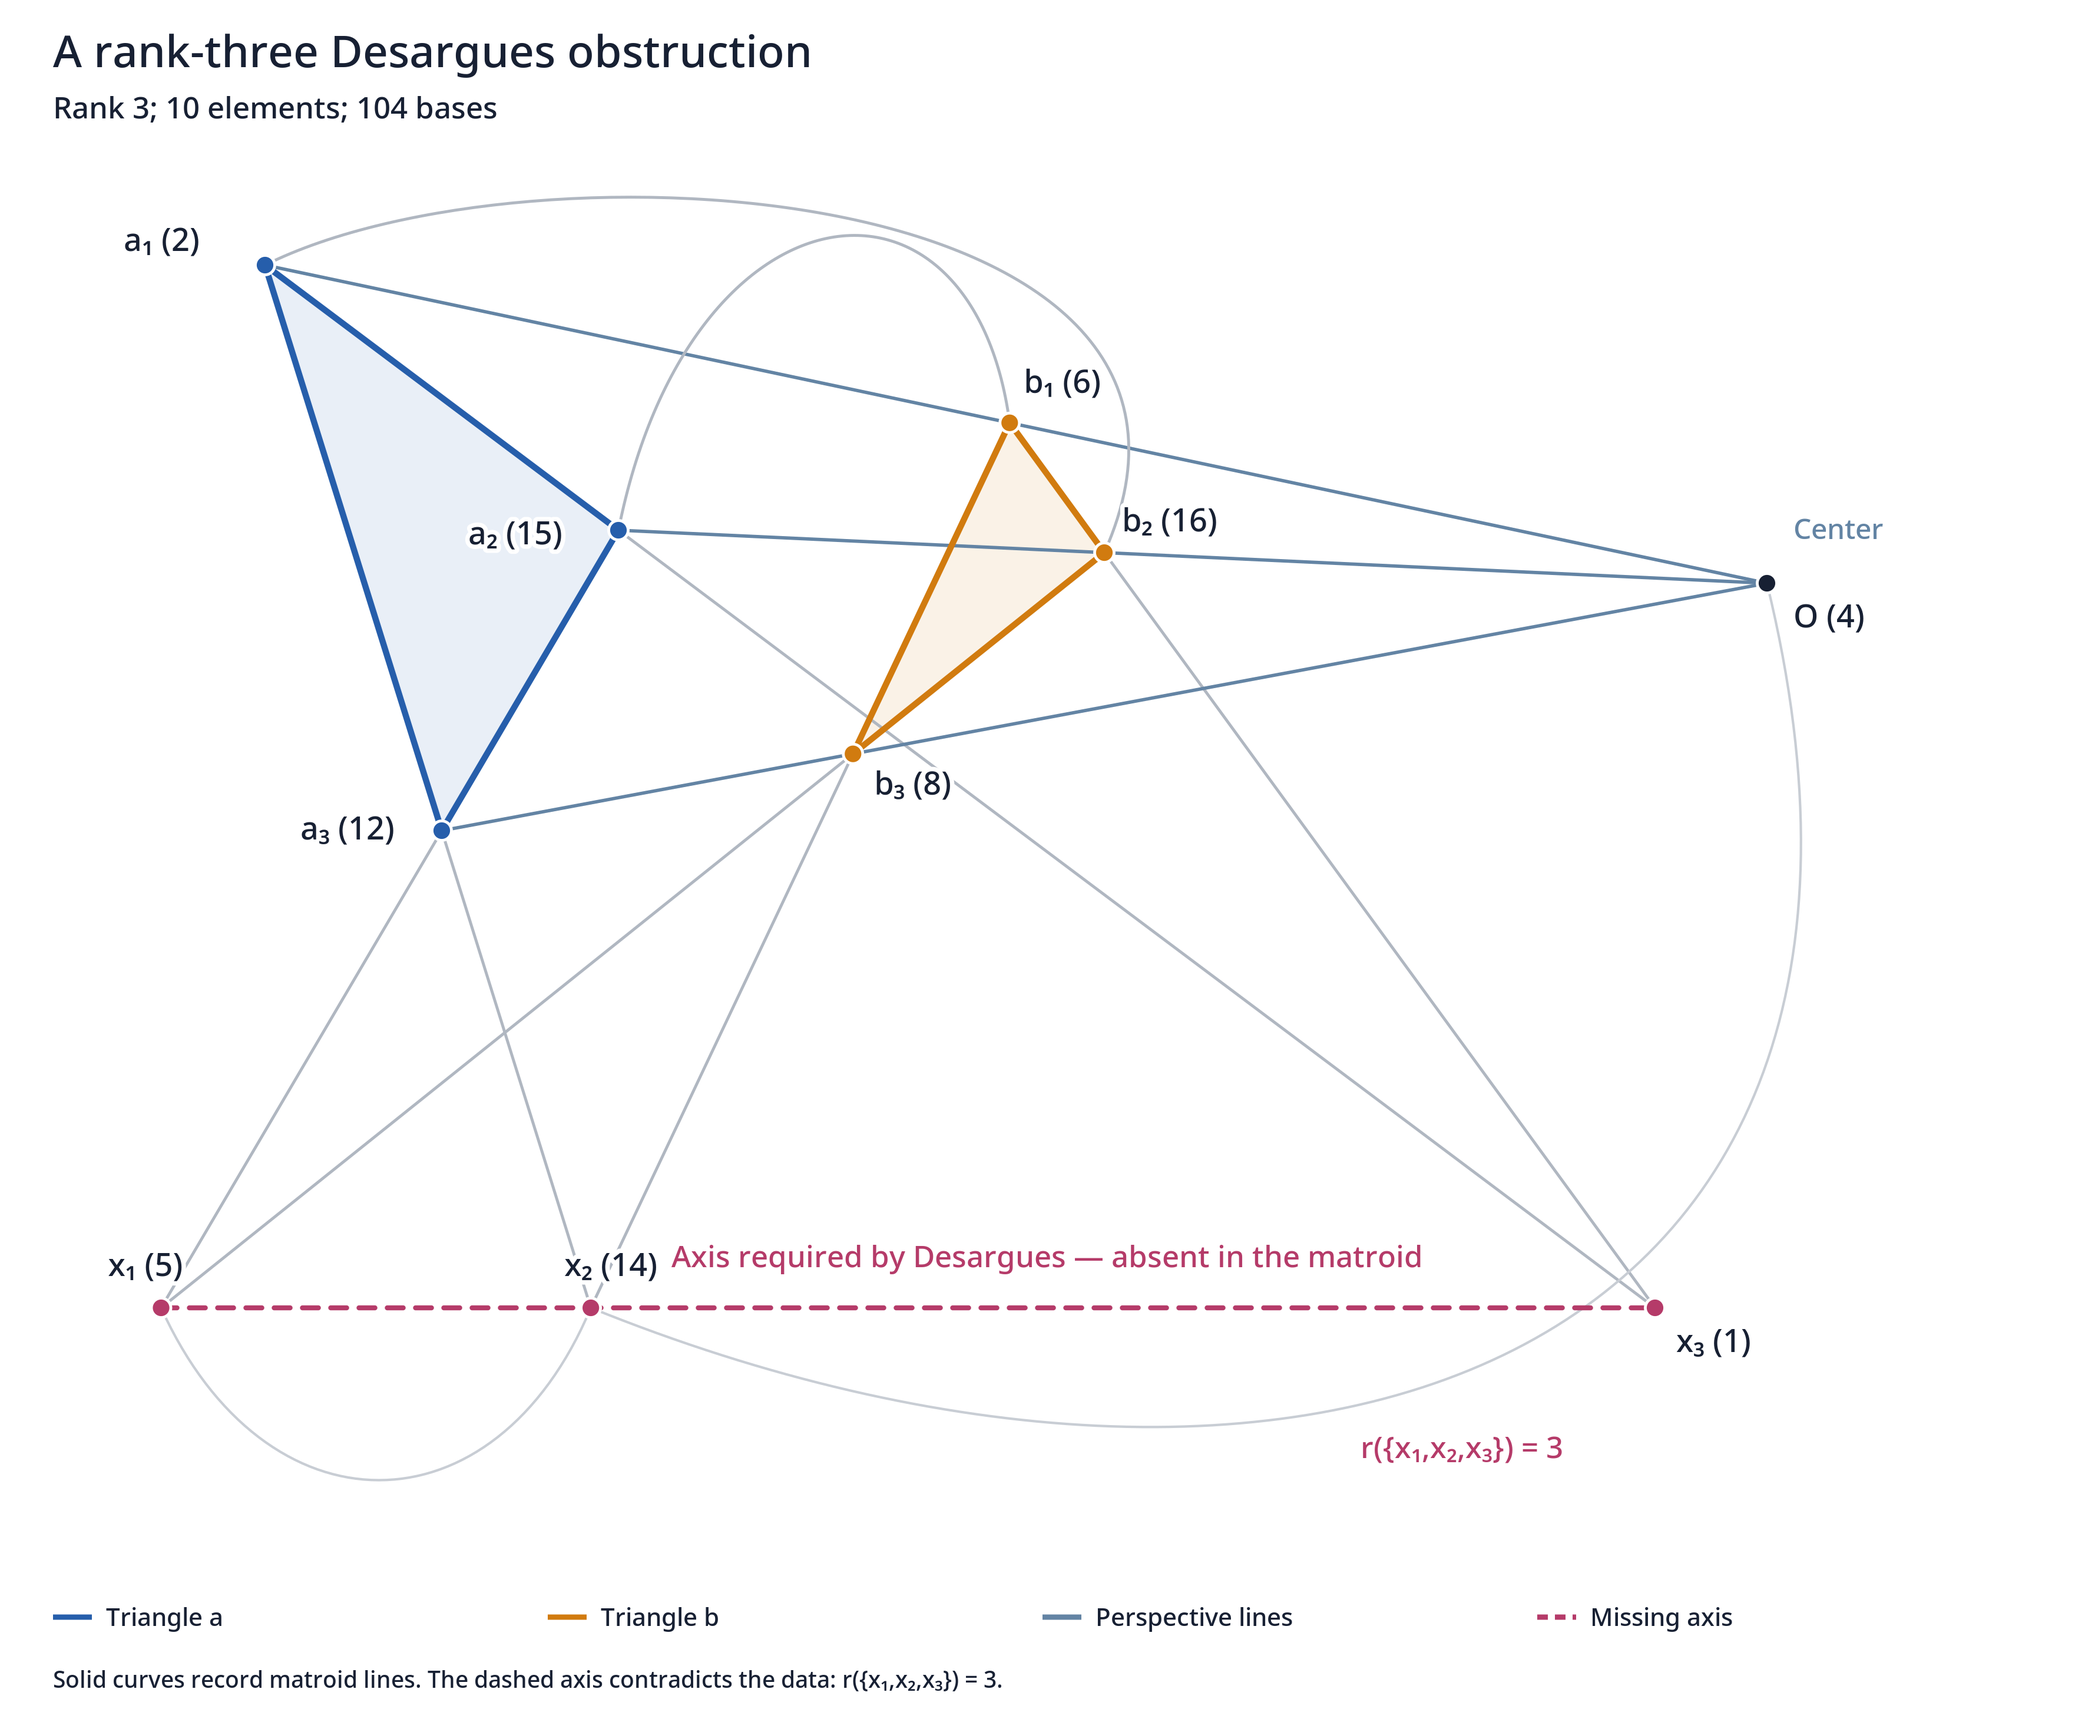
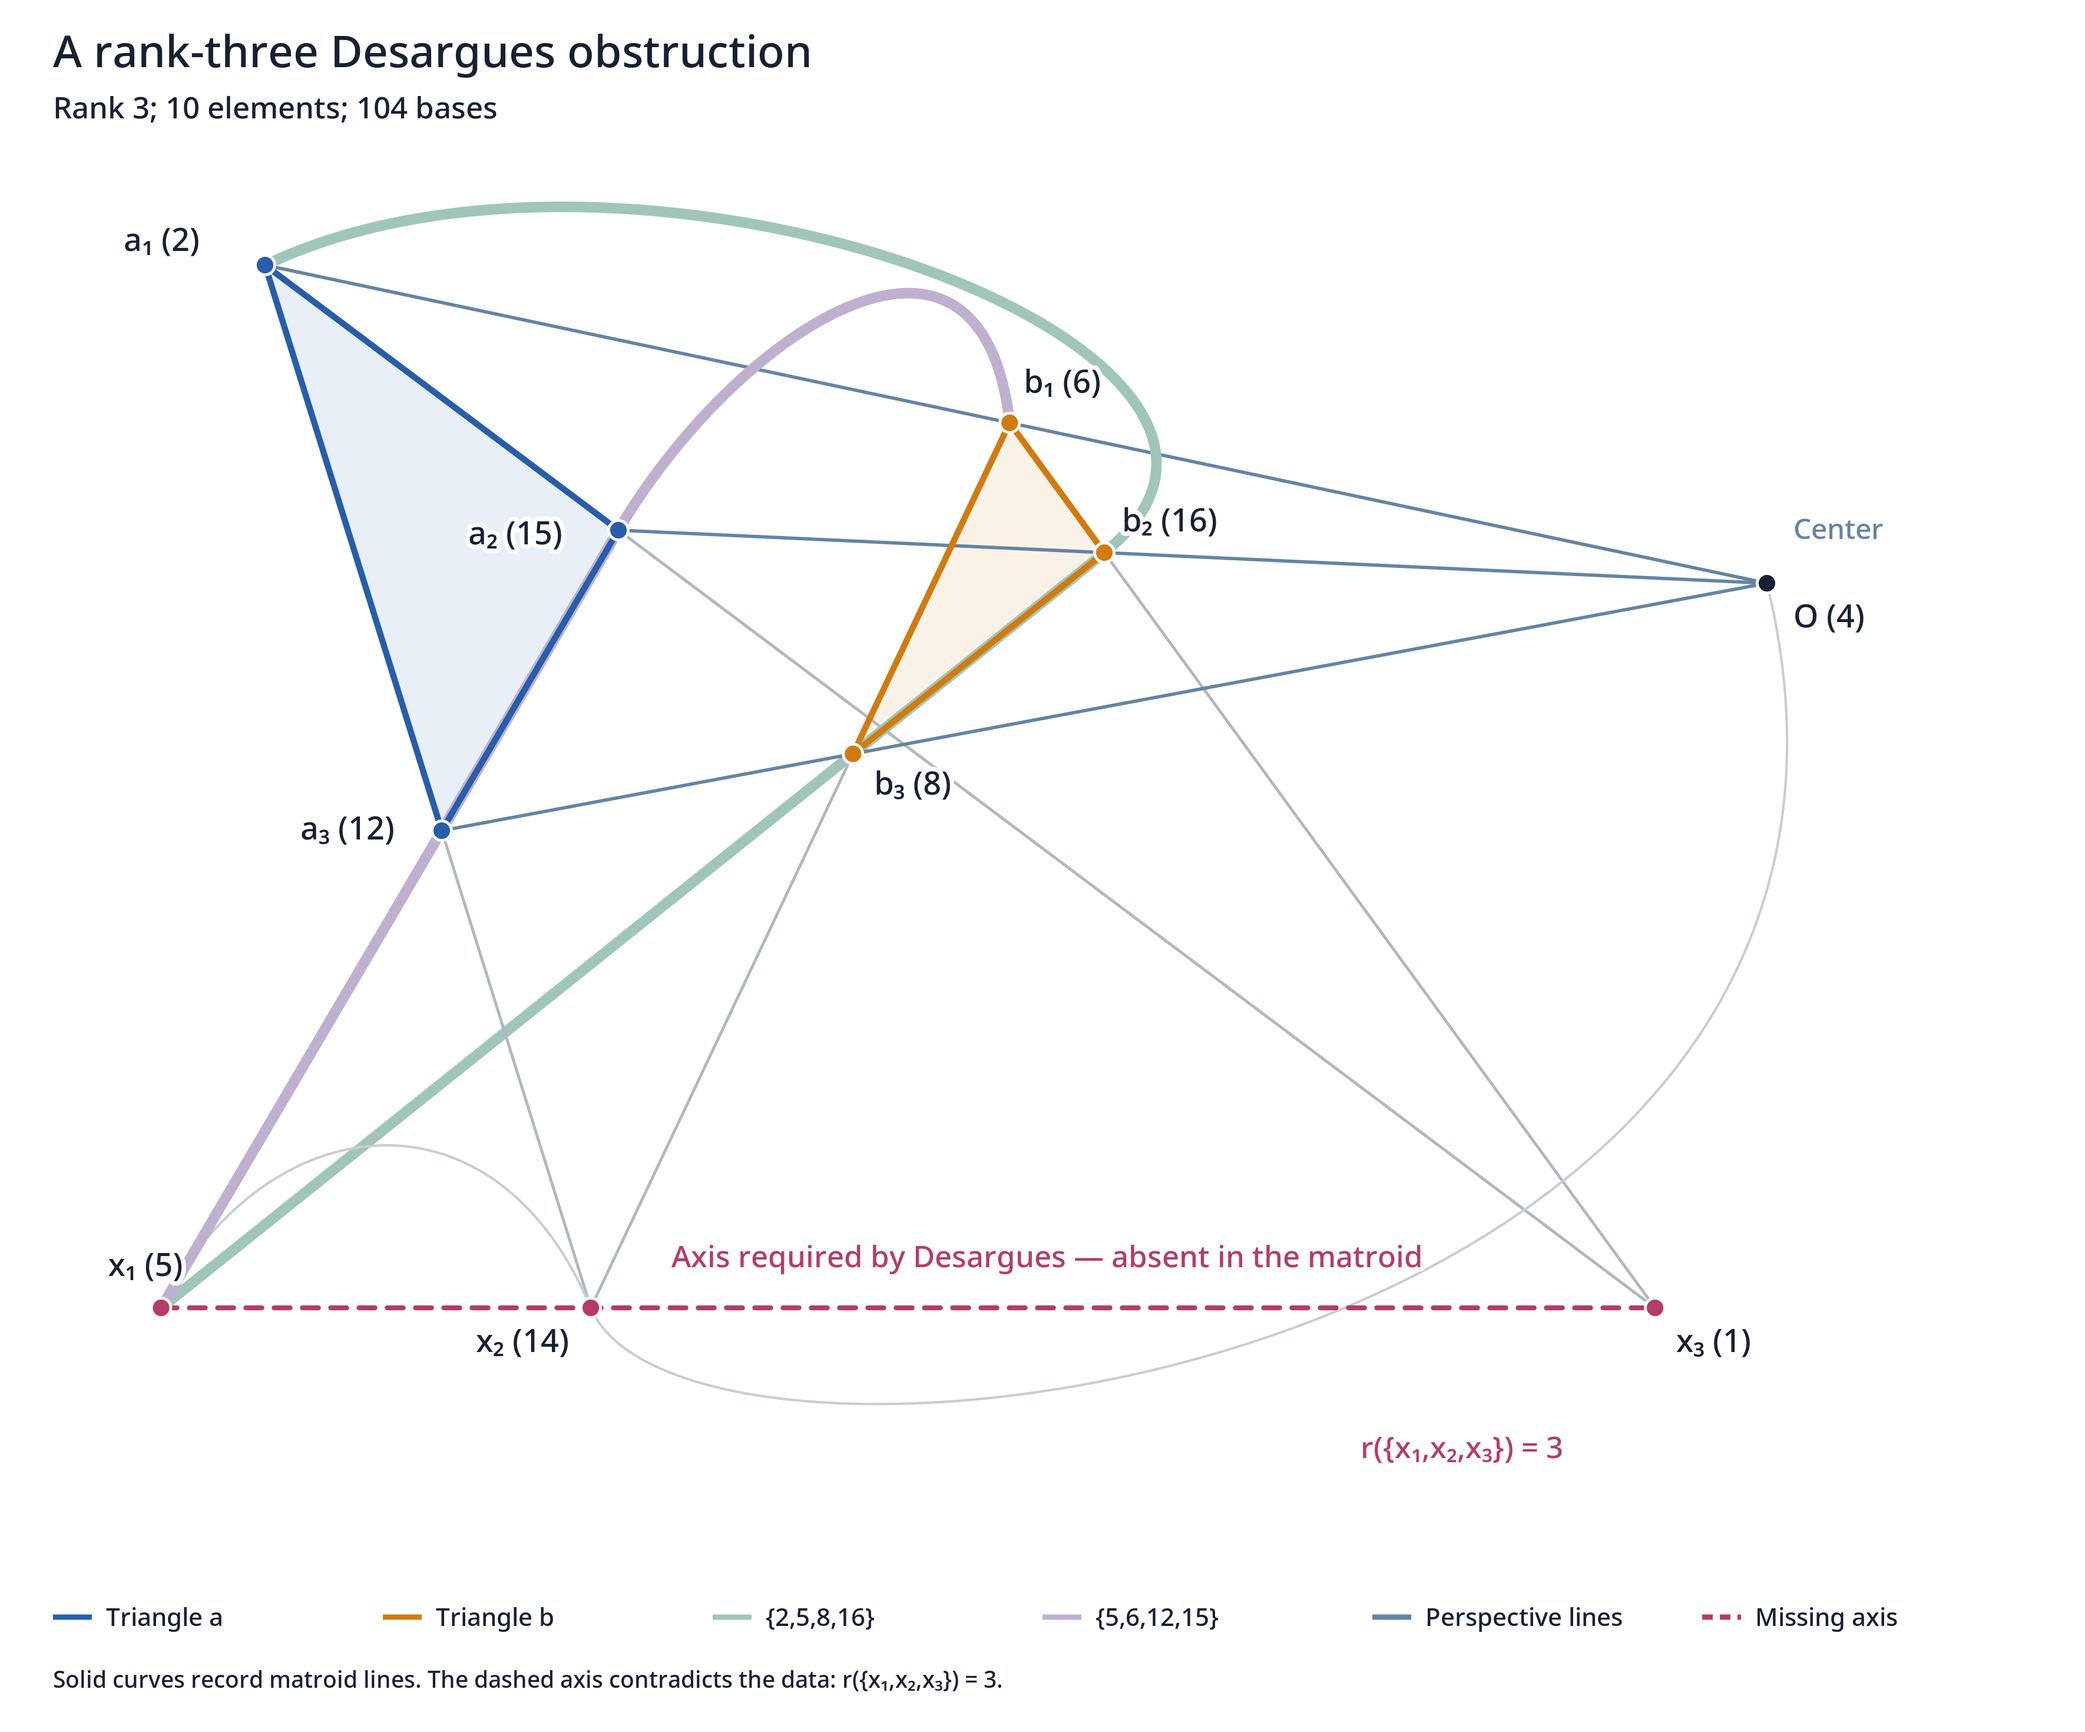
Smooth the matroid curves and distinguish the four-point lines
Match tangent directions where curved and straight pieces join, and smooth the three-point line through x2. Use soft green and violet strokes along the complete four-point flats, with matching legend entries. Record all presentation changes in the layout JSON and regenerate the transparent SVG and PNG.

All eleven tests pass. Check tangent continuity, clearance from nonincident points, separation of the upper arcs, and PNG transparency.

diff --git a/README.md b/README.md
@@ -494,9 +494,12 @@ The apparent collinearity is deliberately an annotation, not an incidence.
 The actual rank-two flat through `x_1` and `x_2` is `{4,5,14}`, drawn as a
 light-gray curve.
 
-The triangle boundaries are straight and prominent, while their extensions
-are lighter. The additional curved pieces record the extra incidences on
-the two four-point lines and the line `{4,5,14}`.
+The triangle boundaries are straight and prominent. Soft green and violet
+strokes follow the complete four-point lines `{2,5,8,16}` and `{5,6,12,15}`,
+respectively, including their portions along triangle edges. Their curved
+and straight pieces meet with matching tangent directions, so each full
+line can be followed through all four points. The light-gray line
+`{4,5,14}` also passes smoothly through its middle point `x_2`.
 
 All ten nontrivial rank-two flats are drawn. Following the incidence-diagram
 convention in [O], curves record flats and only marked points are elements;
